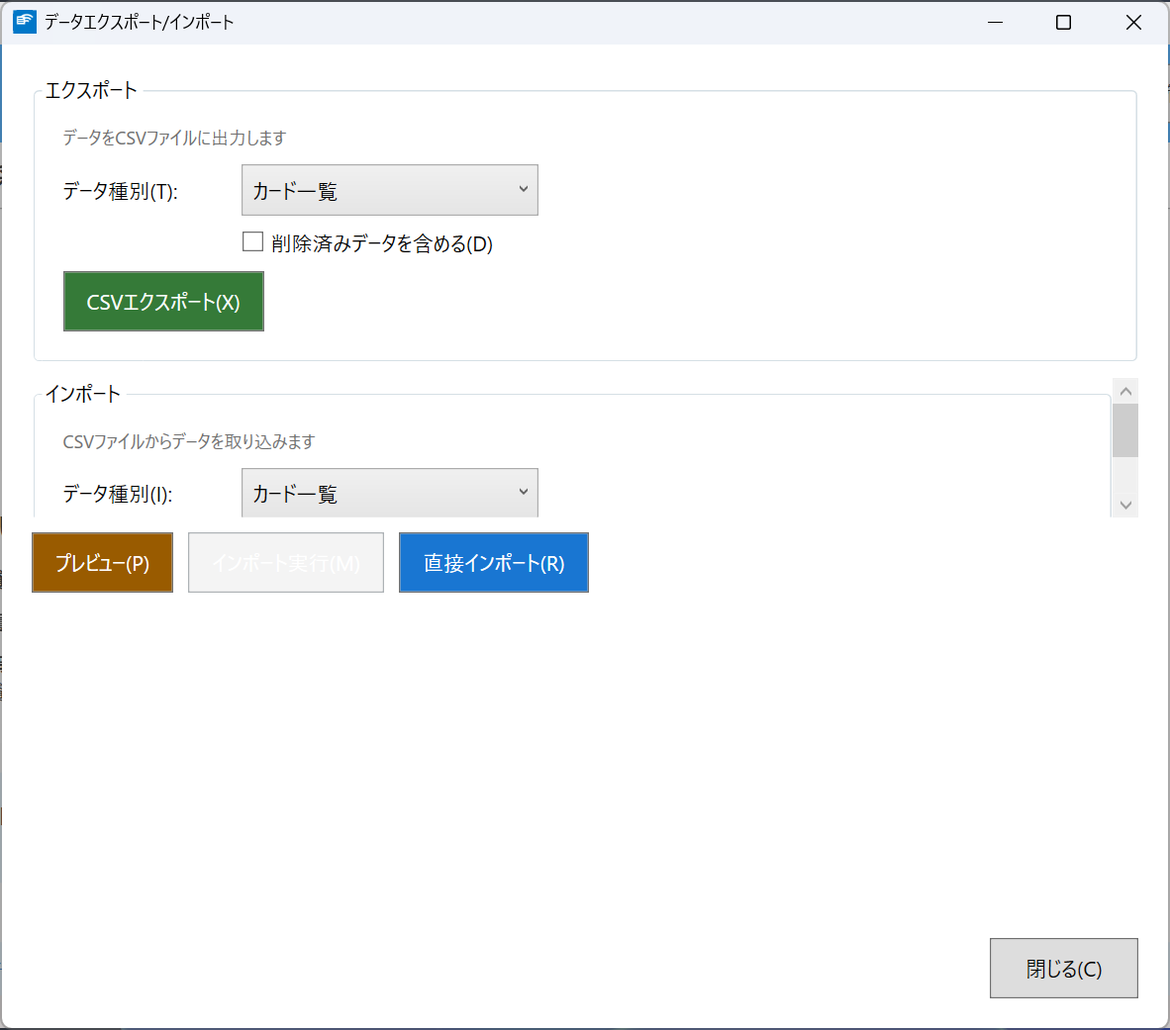
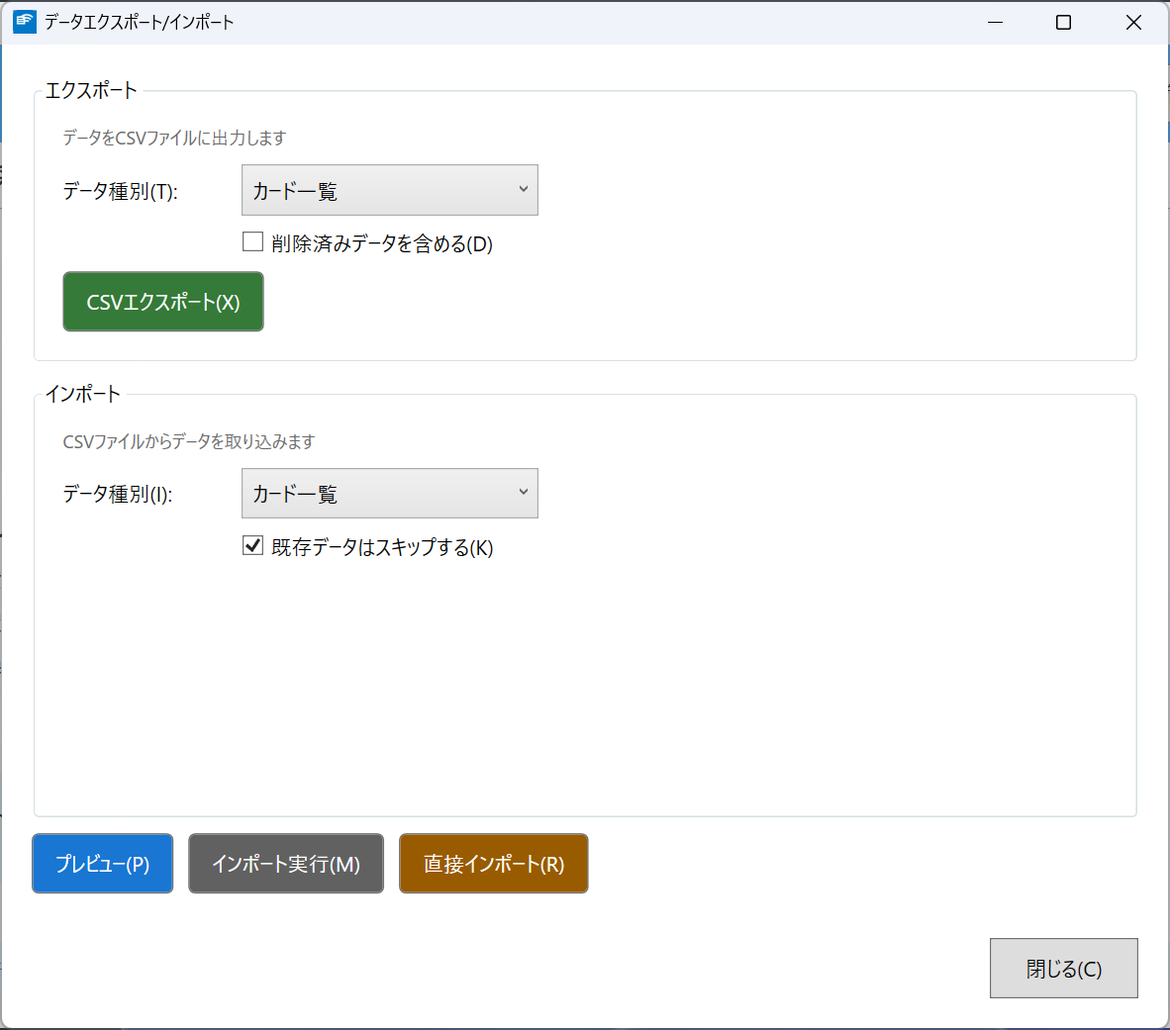
fix: データ入出力画面のプレビュー前にインポート設定が残りの高さをすべて使えるようにした（#2147） (#2148)
* fix: データ入出力画面のプレビュー前にインポート設定が残りの高さをすべて使えるようにした（#2147）

プレビュー結果の行は常に 2* で、中身が Collapsed でも比率どおりの高さを確保していたため、
プレビュー前も高さの 2/3 が空白になり、インポート設定がスクロールしないと見えなかった。
行の高さを Style の DataTrigger で「既定 Auto、HasPreview のときだけ 2*」に切り替える。

- 回帰は DataExportImportDialogLayoutTests（XAML 静的検査 5 件）で固定する。
  非表示時 Auto／表示時 * 系・条件が Visibility と同じ・ローカル値を持たない・
  無条件の * はインポート行だけ、を対で表明し、検査ロジックをサンプル入力で固定する
- 03_画面設計書 §3.10 に高さの配分を追記、07_テスト設計書・CHANGELOG を更新

Claude-Session: https://claude.ai/code/session_01H3hxEXMvzun1owyyquGWRX

* docs: 比率行は中身が Collapsed でも高さを取る規約を ui-conventions に追記した（#2147）

Claude-Session: https://claude.ai/code/session_01H3hxEXMvzun1owyyquGWRX

* docs: データ入出力画面のスクリーンショットを新しい高さの配分で撮り直した（#2147）

Claude-Session: https://claude.ai/code/session_01H3hxEXMvzun1owyyquGWRX

---------

diff --git a/ICCardManager/src/ICCardManager/Views/Dialogs/DataExportImportDialog.xaml b/ICCardManager/src/ICCardManager/Views/Dialogs/DataExportImportDialog.xaml
@@ -36,7 +36,24 @@
             <RowDefinition Height="*"/>      <!-- Row 1: インポート設定（スクロール可能、残領域を使用） -->
             <RowDefinition Height="Auto"/>   <!-- Row 2: アクションボタン -->
             <RowDefinition Height="Auto"/>   <!-- Row 3: ステータスメッセージ -->
-            <RowDefinition Height="2*" MinHeight="0"/>  <!-- Row 4: プレビュー結果＋エラー（リサイズ可能） -->
+            <!-- Row 4: プレビュー結果＋エラー。Issue #2147: 行の比率は中身の表示状態と無関係に効くため、
+                 常に 2* だとプレビュー前（インポート設定を操作している最中）も残りの高さの 2/3 が空白として確保され、
+                 インポート設定がスクロールしなければ見えなかった。プレビュー表示中だけ 2* で分け合い、
+                 それ以外は Auto（エラー一覧だけならその高さ、何も無ければ上余白だけ）にして余りをインポート設定へ回す。
+                 表示中も Auto にすると DataGrid が全件ぶん縦に伸びて閉じるボタンを画面外へ押し出す（#2076）。
+                 高さはローカル値で書かない（ローカル値は Style の Setter より優先され、トリガーが効かなくなる） -->
+            <RowDefinition MinHeight="0">
+                <RowDefinition.Style>
+                    <Style TargetType="RowDefinition">
+                        <Setter Property="Height" Value="Auto"/>
+                        <Style.Triggers>
+                            <DataTrigger Binding="{Binding HasPreview}" Value="True">
+                                <Setter Property="Height" Value="2*"/>
+                            </DataTrigger>
+                        </Style.Triggers>
+                    </Style>
+                </RowDefinition.Style>
+            </RowDefinition>
             <RowDefinition Height="Auto"/>   <!-- Row 5: Close button（常に表示） -->
         </Grid.RowDefinitions>
 

diff --git a/ICCardManager/tests/ICCardManager.Tests/Views/Dialogs/DataExportImportDialogLayoutTests.cs b/ICCardManager/tests/ICCardManager.Tests/Views/Dialogs/DataExportImportDialogLayoutTests.cs
@@ -1,0 +1,245 @@
+using System;
+using System.Collections.Generic;
+using System.IO;
+using System.Linq;
+using FluentAssertions;
+using ICCardManager.Tests.Views.Helpers;
+using Xunit;
+
+namespace ICCardManager.Tests.Views.Dialogs;
+
+/// <summary>
+/// Issue #2147: データ入出力ダイアログで、プレビューを表示していない間はインポート設定が
+/// 残りの高さをすべて使えること（空のプレビュー領域が高さを確保しないこと）を固定する。
+/// </summary>
+/// <remarks>
+/// <para>
+/// ルート <c>Grid</c> はインポート設定の行を <c>*</c>、プレビュー結果の行を <c>2*</c> で分け合っていた。
+/// プレビュー結果は <c>HasPreview</c> で <c>Collapsed</c> になるが、<b>行の高さの比率は中身の表示状態と
+/// 無関係に効く</b>ため、プレビュー前（＝インポート設定を操作している最中）も残りの高さの 2/3 が
+/// 何も描かれない空白として確保され、インポート設定は 1/3 のスクロール領域へ押し込まれていた。
+/// ウィンドウを縦に広げても広がった分の 2/3 は空白へ回る。
+/// </para>
+/// <para>
+/// <b>回帰は「非表示時は高さを取らない」と「表示時は伸縮する高さを取る」を対で置く</b>。
+/// 前者だけだと、プレビュー行を常に <c>Auto</c> にした実装でも緑になる — その場合 <c>DataGrid</c> は
+/// 無限の高さで測定されて全件ぶん縦に伸び、閉じるボタンを画面外へ押し出す（#2076）。
+/// あわせて「行を切り替える条件」と「中身を表示する条件」が同じプロパティであることを表明する。
+/// 別々の条件にすると、中身が見えているのに高さが 0、あるいは空白が確保される組み合わせが残る。
+/// </para>
+/// <para>
+/// 実描画の高さ（何 px になるか）は UI オートメーションが要るため、XAML テキスト上の構造だけを検査する。
+/// </para>
+/// </remarks>
+public class DataExportImportDialogLayoutTests
+{
+    /// <summary>インポート設定の中にだけ現れる文言（行の特定に使う）。</summary>
+    private const string ImportSectionMarker = "CSVファイルからデータを取り込みます";
+
+    /// <summary>プレビュー結果の一覧にだけ現れるバインディング（行の特定に使う）。</summary>
+    private const string PreviewListMarker = "{Binding PreviewItems}";
+
+    [Fact]
+    public void プレビュー結果の行はプレビューを表示していない間は高さを確保しないこと()
+    {
+        var layout = LoadLayout();
+        var previewRow = layout.RowDefinitions[layout.RowOf(PreviewListMarker)];
+
+        XamlElementInspection.GetUnconditionalPropertyValue(previewRow, "Height").Should().Be("Auto",
+            "Issue #2147: プレビュー結果が Collapsed の間も比率（2* 等）で高さを確保すると、" +
+            "その分が空白になってインポート設定がスクロールしなければ見えなくなる");
+    }
+
+    [Fact]
+    public void プレビュー結果の行はプレビューを表示している間は伸縮する高さを取ること()
+    {
+        var layout = LoadLayout();
+        var previewRow = layout.RowDefinitions[layout.RowOf(PreviewListMarker)];
+
+        var triggers = HeightTriggers(previewRow);
+
+        triggers.Should().ContainSingle(
+            "プレビュー結果の行は、プレビューの表示中だけ高さを切り替えること（対の表明: 常に Auto だと " +
+            "DataGrid が全件ぶん縦に伸びて閉じるボタンを画面外へ押し出す。#2076）");
+        triggers[0].Height.Should().EndWith("*", "表示中は残りの高さを分け合う（一覧自身がスクロールする）こと");
+
+        var previewVisibility = layout.VisibilityBindingEnclosing(PreviewListMarker);
+        triggers[0].Property.Should().NotBeNull().And.Be(previewVisibility,
+            "行の高さを切り替える条件と、プレビュー結果を表示する条件は同じプロパティであること" +
+            "（食い違うと「見えているのに高さ 0」か「空白の確保」が残る）");
+    }
+
+    /// <summary>
+    /// プレビュー結果の行は高さをローカル値（開始タグの属性・プロパティ要素）で持たないこと。
+    /// </summary>
+    /// <remarks>
+    /// WPF ではローカル値が Style の Setter とトリガーより優先される。<c>&lt;RowDefinition Height="Auto"&gt;</c> と
+    /// 書くと、トリガーを残したままでも行は常に <c>Auto</c> になり、プレビュー表示中に <c>DataGrid</c> が
+    /// 全件ぶん伸びて閉じるボタンを押し出す（#2076）。上の 2 件は Style とトリガーの記述しか見ないため、
+    /// この形では緑のまま通る（コードレビューで検出）。
+    /// </remarks>
+    [Fact]
+    public void プレビュー結果の行は高さをローカル値で持たないこと()
+    {
+        var layout = LoadLayout();
+        var previewRow = layout.RowDefinitions[layout.RowOf(PreviewListMarker)];
+
+        XamlElementInspection.GetAttribute(previewRow.StartTag, "Height").Should().BeNull(
+            "Issue #2147: ローカル値はトリガーより優先されるため、行の高さがプレビューの表示状態に追随しなくなる");
+        XamlElementInspection.EnumerateElements(previewRow.Body, "RowDefinition.Height").Should().BeEmpty(
+            "プロパティ要素形（<RowDefinition.Height>）もローカル値であり、同じくトリガーを無効にする");
+    }
+
+    [Fact]
+    public void 無条件に伸縮する行はインポート設定の行だけであること()
+    {
+        var layout = LoadLayout();
+        var importRow = layout.RowOf(ImportSectionMarker);
+
+        var starRows = layout.RowDefinitions
+            .Select((row, index) => new
+            {
+                Index = index,
+                Height = XamlElementInspection.GetUnconditionalPropertyValue(row, "Height") ?? "*",
+            })
+            .Where(r => r.Height.EndsWith("*", StringComparison.Ordinal))
+            .Select(r => r.Index)
+            .ToList();
+
+        starRows.Should().Equal(new[] { importRow },
+            "Issue #2147: プレビュー前に余った高さはすべてインポート設定へ回すこと" +
+            "（他の行が比率で高さを取ると、その分だけインポート設定がまた狭くなる）");
+    }
+
+    /// <summary>
+    /// 検査ロジック自体の固定: 修正前の形（<c>*</c> と <c>2*</c> の常時分割）を与えると赤になること。
+    /// </summary>
+    /// <remarks>
+    /// 行の特定（祖先を辿って <c>Grid.Row</c> を読む）が空振りすると、上の 3 件は
+    /// 「対象の行が見つからないので何も検査しない」形で緑になり得る。既知のサンプル入力で
+    /// 検出できることを固定しておけば、実ファイルの構造が変わっても空振りに気付ける（#1786）。
+    /// </remarks>
+    [Fact]
+    public void 修正前の形は常時分割として検出されること()
+    {
+        const string before = @"<Window>
+    <Grid Margin=""20"">
+        <Grid.RowDefinitions>
+            <RowDefinition Height=""*""/>
+            <RowDefinition Height=""2*"" MinHeight=""0""/>
+        </Grid.RowDefinitions>
+        <ScrollViewer Grid.Row=""0""><TextBlock Text=""CSVファイルからデータを取り込みます""/></ScrollViewer>
+        <Grid Grid.Row=""1"">
+            <Grid Visibility=""{Binding HasPreview, Converter={StaticResource B}}"">
+                <DataGrid ItemsSource=""{Binding PreviewItems}""/>
+            </Grid>
+        </Grid>
+    </Grid>
+</Window>";
+        var layout = new DialogLayout(before);
+
+        layout.RowOf(ImportSectionMarker).Should().Be(0);
+        layout.RowOf(PreviewListMarker).Should().Be(1);
+        XamlElementInspection.GetUnconditionalPropertyValue(layout.RowDefinitions[1], "Height")
+            .Should().Be("2*", "修正前の形では、プレビュー結果の行が常に比率で高さを確保している");
+        layout.VisibilityBindingEnclosing(PreviewListMarker).Should().Be("HasPreview");
+    }
+
+    /// <summary>
+    /// 行定義の <c>DataTrigger</c>（<c>Value="True"</c>）のうち高さを設定するものを、条件のプロパティ名と値の組で返す。
+    /// </summary>
+    /// <remarks>
+    /// Setter の <c>Property</c> は所有者付きの表記（<c>RowDefinition.Height</c>）も同じ指定として照合する
+    /// （<see cref="XamlElementInspection.IsSetterFor"/>。書き方の違いで赤くなる誤検出を避ける。#1786）。
+    /// </remarks>
+    private static List<(string? Property, string Height)> HeightTriggers(XamlElementInspection.XamlElementSpan row)
+        => XamlElementInspection.EnumerateElements(row.Body, "DataTrigger")
+            .Where(t => XamlElementInspection.GetAttribute(t.StartTag, "Value") == "True")
+            .SelectMany(t => XamlElementInspection.EnumerateElements(t.Body, "Setter")
+                .Where(s => XamlElementInspection.IsSetterFor(XamlElementInspection.GetAttribute(s.StartTag, "Property"), "Height"))
+                .Select(s => XamlElementInspection.GetAttribute(s.StartTag, "Value"))
+                .Where(v => v != null)
+                .Select(v => (
+                    Property: XamlElementInspection.GetBindingPropertyName(XamlElementInspection.GetAttribute(t.StartTag, "Binding")),
+                    Height: v!)))
+            .ToList();
+
+    private static DialogLayout LoadLayout()
+        => new(File.ReadAllText(ViewSourceLocator.Resolve(
+            Path.Combine("Views", "Dialogs", "DataExportImportDialog.xaml"))));
+
+    /// <summary>ルート <c>Grid</c> の行定義と、各要素がどの行に置かれているかを引く。</summary>
+    private sealed class DialogLayout
+    {
+        private readonly string _xaml;
+
+        public DialogLayout(string xaml)
+        {
+            _xaml = XamlElementInspection.StripXmlComments(xaml);
+            // 子孫の Grid（プレビュー結果の内側の Grid 等）も Grid.RowDefinitions を持つため、
+            // 取り除いてからルート自身の行定義を 1 つに絞る
+            var rootBody = RootGrid.Body;
+            foreach (var nested in XamlElementInspection.EnumerateElementSpans(rootBody, "Grid").Reverse().ToList())
+            {
+                rootBody = rootBody.Remove(nested.Start, nested.Length);
+            }
+
+            RowDefinitions = XamlElementInspection.EnumerateElementSpans(
+                    XamlElementInspection.EnumerateElements(rootBody, "Grid.RowDefinitions").Single().Body,
+                    "RowDefinition")
+                .ToList();
+            RowDefinitions.Should().NotBeEmpty("ルート Grid は行定義を持つ");
+        }
+
+        public IReadOnlyList<XamlElementInspection.XamlElementSpan> RowDefinitions { get; }
+
+        /// <summary>Window 直下の Grid。</summary>
+        private XamlElementInspection.XamlElementSpan RootGrid
+            => XamlElementInspection.EnumerateElementSpans(RootBody, "Grid").First();
+
+        private string RootBody
+        {
+            get
+            {
+                var rootTag = XamlElementInspection.GetRootStartTag(_xaml)!;
+                var start = _xaml.IndexOf(rootTag, StringComparison.Ordinal);
+                return XamlElementInspection.ElementStartingAt(_xaml, start)!.Body;
+            }
+        }
+
+        /// <summary>
+        /// <paramref name="marker"/> を含む、ルート Grid の直接の子が置かれている行番号。
+        /// </summary>
+        public int RowOf(string marker)
+        {
+            var child = RootChildEnclosing(marker);
+            var row = XamlElementInspection.GetAttribute(child.StartTag, "Grid.Row");
+            return row == null ? 0 : int.Parse(row);
+        }
+
+        /// <summary>
+        /// <paramref name="marker"/> を囲む要素のうち、<c>Visibility</c> をバインドしている最も内側のもののプロパティ名。
+        /// </summary>
+        public string? VisibilityBindingEnclosing(string marker)
+            => Enclosing(marker)
+                .Select(e => XamlElementInspection.GetBindingPropertyName(
+                    XamlElementInspection.GetAttribute(e.StartTag, "Visibility")))
+                .LastOrDefault(p => p != null);
+
+        private XamlElementInspection.XamlElementSpan RootChildEnclosing(string marker)
+        {
+            var enclosing = Enclosing(marker);
+            var rootGridIndex = enclosing.FindIndex(e => e.StartTag.StartsWith("<Grid", StringComparison.Ordinal));
+            rootGridIndex.Should().BeGreaterOrEqualTo(0, $"「{marker}」はルート Grid の内側にあること");
+            enclosing.Count.Should().BeGreaterThan(rootGridIndex + 1, $"「{marker}」はルート Grid の子要素の内側にあること");
+            return enclosing[rootGridIndex + 1];
+        }
+
+        private List<XamlElementInspection.XamlElementSpan> Enclosing(string marker)
+        {
+            var index = _xaml.IndexOf(marker, StringComparison.Ordinal);
+            index.Should().BeGreaterOrEqualTo(0, $"「{marker}」が XAML に存在すること（行の特定に使う目印）");
+            return XamlElementInspection.EnumerateEnclosingElements(_xaml, index).ToList();
+        }
+    }
+}

diff --git a/ICCardManager/docs/design/07_テスト設計書.md b/ICCardManager/docs/design/07_テスト設計書.md
@@ -24,9 +24,9 @@
 
 | 種別 | テスト数 | 備考 |
 |------|---------|------|
-| 単体テスト（ICCardManager.Tests） | 8,023件 | xUnit + FluentAssertions + Moq（Release 構成での実測、CI `test-count-sync` と整合） |
+| 単体テスト（ICCardManager.Tests） | 8,028件 | xUnit + FluentAssertions + Moq（Release 構成での実測、CI `test-count-sync` と整合） |
 | UIテスト（ICCardManager.UITests） | 72件 | Issue #1263 でダイアログ追加6件（その後アクセシビリティ・新機能対応で増加）。Issue #2016 でマニュアル用スクリーンショット撮影 8 件（環境変数で opt-in、通常は Skip）＋起動構成の解決 7 件、Issue #2019 でタッチを要する画面の撮影 3 件、Issue #2011 で撮り直し・新規画面の撮影 14 件（`ManualScreenshotTests` +10、`TouchScreenshotTests` +4）、Issue #2062 で既存 DB の退避・復元 14 件（`UiTestDatabaseGuardTests`）。Category=UI を持たないこの 2 クラス（起動構成の解決・既存 DB の退避）は、Issue #2099 で CI に UITests の csproj を直接指定するステップを追加して初めて実際に CI で実行されるようになった（それまでは UITests がソリューション単位の実行から自分を外しており、一度も走っていなかった） |
-| **合計** | **8,095件** | 全件パス（最終同期: Issue #2143 30秒ルールの案内文言・終了確認・行編集の Enter 案内の是正で単体 +12） |
+| **合計** | **8,100件** | 全件パス（最終同期: Issue #2147 データ入出力画面のインポート設定の高さの是正で単体 +5） |
 
 > **件数の同期手順（Issue #1475）**
 >
@@ -5591,6 +5591,7 @@ Issue #1548 マージ後の実機検証（Issue #1507）で、ページ送り操
 | `Views/Helpers/EditFormKeyPolicyTests` | 10 | Issue #2080。Escape キーが意味する操作を決める純関数 `EditFormKeyPolicy.ResolveEscapeAction(bool)` の検証。編集中は `CancelEdit`（編集フォームだけを閉じて一覧へ戻る）、非編集中は `CloseDialog`（従来どおりダイアログを閉じる）。`Window` のコードビハインドは STA 依存で xUnit から実行できないため、**判断だけを純関数へ切り出して単体テストで、結線はソーステキストの静的検査で固定する**（error-messages.md #1817 と同じ作法）。個別の期待値 2 件に加え、**別の観測軸**として「編集中かどうかで結果が変わること」を置く — 個別の 2 件は片方を書き換える退行がもう片方を巻き込まないが、この表明は編集状態を見ずに一方へ畳んだ実装（常に閉じる／常に取り消す）を必ず赤にする。**コードレビューでの追加**: 処理中（`IsBusy`）は編集状態に関わらず `Ignore`。処理中オーバーレイが塞ぐのはマウスのヒットテストだけで、キーボードは配下へ届く（#1761）ため、`BeginBusy` スコープの内側で DB を待つ保存の継続が**空になった入力欄**を読み、影響行数 0 から「他のパソコンで削除された可能性があります」という**試みてすらいない編集についての競合案内**が出る。登録経路ではカード読み取り抑制（#1807）も解放され、その瞬間のタッチが貸出として処理される。是正前の Escape（`IsCancel="True"`）はウィンドウを閉じるだけで入力欄を消さなかったので、**これは是正が持ち込み得た新しい故障**。結果の集合を走査する表明（4 通りの入力で 3 種類の結果が出ること）が、どちらかの引数を見ない実装を赤にする。Issue #2102 で、`HandleEscape` の振り分けを STA 上の実物の `Window` と `KeyEventArgs` で検証するテストを追加した（`ResolveEscapeAction` へ渡す IsBusy を false に固定しても緑だった） |
 | `Views/FontScaledFixedHeightConventionTests` | 3 | `Views/` 配下全体の静的検証（Issue #2076）。**走査対象をファイル名で列挙せず導出する** — 文字が `BaseFontSize` に追随するコントロール（`Button` / `ComboBox` / `TextBox` / `DatePicker` / `CheckBox` / `RadioButton` / `TextBlock` / `PasswordBox`）に数値リテラルの `Height` を与えないこと。固定高さは文字サイズ「大」以上で中身の上下を切り落とし、**横方向の切れと違って読み直す手段が無い**（切れていること自体が見て分からない）。Issue が名指ししたのは印刷プレビューの 10 箇所だけだったが、走査すると 23 箇所あった。**除外は「中身をスクロールできること」（`VerticalScrollBarVisibility` の宣言）で判断する** — 複数行の備考欄は固定高さのビューポートであり、文字が大きくなれば見える行数が減るだけで中身は失われない。画面名による除外リストにすると同型の新しい箇所が静かに漏れる（#1786）。`MaxHeight` は band の上限で中身を切らないため対象外（`SystemManageDialog` のバックアップ一覧が該当）。空振り検出は「除外側に残る実在の 2 箇所（`CardManageDialog` / `StaffManageDialog` の備考欄）が拾えていること」で、検査ロジック自体はサンプル入力で対に固定する（固定 `Height` を拾う／`MinHeight`・`MaxHeight`・バインディング・レイアウト要素・プロパティ要素は拾わない／単引用符と属性値中の `>` でも拾う）。走査は `Views/Helpers/XamlElementInspection` へ委譲する（testing.md）。**検査できない範囲**（外部リソース辞書の `Style` 経由の `Height`）は XML doc に明示する。検出力は修正前の XAML に当てて実測（赤） |
 | `Views/Dialogs/LowResolutionDialogLayoutTests` | 9 | XAML テキスト上の静的検証（Issue #2076）。03_画面設計書 §5.6「入力フォーム型ダイアログの構造」への適合を固定する。①`SystemManageDialog` / `CardRegistrationModeDialog` のボタン行（「閉じる」「OK」）が `ScrollViewer` の**外**にあること ②**対の表明**として、伸び得る内容（「リストア（データ復元）」「紙の出納簿からの繰越」）が `ScrollViewer` の**中**にあること — ①だけだと `ScrollViewer` を丸ごと撤去して固定配置に戻した実装（＝欠陥がそのまま残る）でも緑になる ③`CardTypeSelectionDialog` のボタン 3 つが `WrapPanel` の中にあり、`<UniformGrid` を使っていないこと（同幅に揃えると最長の「交通系ICカード」に合わせて特大でまた溢れる。#1692）。禁止要素は**タグで照合**するので、その理由を書いたコメント自体が違反として検出されることはない（#1692 の極性の反転）。対象には `SizeToContent="Height"` の 2 つ（カード種別選択・職員証認証）も含める（コードレビューで検出） — **上限（`MaxHeight`）を付けただけでは「画面外へ出る」が「切れて見えない」に変わるだけで、押す手段が無いことは変わらない**。実描画は UI オートメーションが要るため手動検証する |
+| `Views/Dialogs/DataExportImportDialogLayoutTests` | 5 | XAML テキスト上の静的検証（Issue #2147）。データ入出力ダイアログで、**プレビューを表示していない間はインポート設定が残りの高さをすべて使えること**を固定する。ルート `Grid` がインポート設定 `*`・プレビュー結果 `2*` で常時分割していたため、プレビュー前も高さの 2/3 が空白として確保されていた。①プレビュー結果の行の無条件の高さが `Auto` ②**対の表明**として、`HasPreview` のときだけ `*` 系の高さへ切り替わり、その条件がプレビュー結果の `Visibility` と同じプロパティであること — ①だけだと常に `Auto` にした実装（`DataGrid` が全件ぶん伸びて閉じるボタンを押し出す。#2076）でも緑になる ③プレビュー結果の行が高さをローカル値（属性・プロパティ要素）で持たないこと（ローカル値はトリガーより優先され、トリガーを残したまま常に `Auto` になる。コードレビューで検出） ④無条件に伸縮する行はインポート設定の行だけ ⑤検査ロジック自体を修正前の形のサンプル入力で固定（行の特定が空振りして何も検査しない状態を検出する。#1786）。検出力は修正前の XAML・トリガー条件の取り違え・トリガーの撤去の 3 変異とローカル値の変異で実測 |
 | `Views/MainWindowHistoryColumnLayoutTests` | 10 | XAML テキスト上の静的検証（Issue #2076）。履歴一覧の自由入力列（利用者・備考）が、幅に収まらない値を隠さないこと。`DataGrid` のセルは既定で切り詰めも省略記号も行わないため、幅 80 固定の利用者列では「博多 花子 外１名」（#1906）の「外１名」が**黙って消え**、職員は 1 人で利用したと読む。行の高さが揃う一覧では折り返し（#1687）を使えないので、`TextTrimming="CharacterEllipsis"`（切れていることが見て分かる）と `ToolTip`（全文を読める）を**対で**求める — 前者だけだと全文を読む手段が無く、後者だけだとマウス操作が前提になる。あわせて既定幅が是正前（80）へ戻っていないことを固定する（切り詰めは「収まらなかったとき」の手当てであって、既定で毎行が切れてよい理由にはならない）。列の特定は `Header` で行い、走査が空振りしていないことを NotBeNull で対に表明する。**値が空の行では `ToolTip` を外すことも固定する**（コードレビューで検出） — `ToolTipService` は最も近い祖先の `ToolTip` を使うため、空のまま残すと中身の無いツールチップが出るうえ、**行レベルの `ToolTip`（#1052 の残高不整合の説明・#1907 の「今回の返却で記録された行」）をそのセルの上でだけ覆う**。利用者は導入行（新規購入・繰越）で空になり、**導入行こそ残高不整合の起点になりやすい**（#2007） |
 | `Views/BusStopInputDialogSuggestionKeyboardLayoutTests` | 12 | XAML・コードビハインドのテキスト上の静的検証（Issue #2072）。入力欄の `PreviewKeyDown` が `HandleSuggestionKey(e.Key)` を呼び `e.Handled = true` にすること・候補リストの `SelectedIndex` バインドと `IsSelected` の強調表示、ListBox と項目の両方が `Focusable="False"` であること・入力欄の `LostKeyboardFocus` が `HideSuggestions()` を呼ぶこと・ヒント文がキー操作を案内していること（詳細は UT-029e） |。Issue #2142 で、どのボタンにも `IsCancel="True"` が無いことと、Esc が Window の `KeyBinding` で `RequestCloseCommand`（確認つきのスキップ）へ結線されていることを対で表明した（`IsCancel` は Click 後に無条件で `DialogResult=false` を設定するため、破棄の確認で「いいえ」を選んでも閉じて入力が失われる。コードレビューで検出）
 | `Views/TransferStationGroupDialogLayoutTests` | 5 | XAML テキスト上の静的検証（Issue #1905）。ステータス欄が編集フォーム（`IsEditing` で Collapsed になる Border）の内側に無いこと・独立した行に**存在すること**（不在だけを見るとステータス欄ごと削除されても緑）・折り返し・一覧操作のボタン行が `WrapPanel` であること・処理中オーバーレイの `RowSpan` がルート `Grid` の行数と一致すること |

diff --git a/.claude/rules/ui-conventions.md b/.claude/rules/ui-conventions.md
@@ -172,6 +172,7 @@ paths:
   - **`SizeToContent="Height"` のダイアログでは `MaxHeight` が `Height` の役割を担う**。内容の高さに合わせて伸びる以上、上限が無ければ画面高さを超える
   - **回帰は「ボタンがスクロール領域の外にあること」と「内容がスクロール領域の中にあること」を対で置く**。前者だけだと、`ScrollViewer` を丸ごと撤去して固定配置へ戻した実装（＝欠陥がそのまま残る）でも緑になる
   - **`ScrollViewer` の中に高さ無制限の一覧を入れない**。外側が無限高さで測定するため一覧は全件ぶん縦に伸び、**外側のスクロール量が件数に比例して増える**。`MaxHeight` で band を切り、超えた分は一覧自身のスクロールで見る（`SystemManageDialog` のバックアップ一覧）
+  - **中身が表示されたり隠れたりする領域に、比率（`2*` 等）の行を固定で与えない**（Issue #2147）。`Grid` の比率行は**中身が `Collapsed` でも比率どおりの高さを確保する**ため、データ入出力ダイアログではプレビュー前も高さの 2/3 が空白になり、インポート設定がスクロールしないと見えなかった。行の高さは `RowDefinition.Style` の `DataTrigger` で「既定 `Auto`、表示中だけ比率」に切り替え、条件は中身の `Visibility` と同じプロパティにする。**高さをローカル値で書かない**（ローカル値はトリガーより優先され、切り替えが効かなくなる）。表示中まで `Auto` にすると一覧が全件ぶん伸びる（上の項目）ので、回帰は「非表示時は `Auto`」と「表示時は比率」を対で置く（`DataExportImportDialogLayoutTests`）
 - **一覧（`DataGrid`）の自由入力列は、幅に収まらない値を隠さない**（Issue #2076）。`DataGrid` のセルは既定で切り詰めも省略記号も行わないため、**入らなかった文字は黙って消える**。履歴一覧の利用者列は幅 80 で、「博多 花子 外１名」（#1906）の「外１名」が文字サイズ「中」でも見えず、**職員は 1 人で利用したと読む**（欠落が「値が無い」と区別できない）
   - **行の高さが揃う一覧では折り返しを使えない**ので、上の「幅ではなく折り返しで担保する」がそのままは適用できない。代わりに `TextTrimming="CharacterEllipsis"`（切れていることが見て分かる）と `ToolTip`（全文を読める）を**対で**置く — 前者だけだと全文を読む手段が無く、後者だけだとマウス操作が前提になる
   - **切り詰めは「収まらなかったとき」の手当てであって、既定で毎行が切れてよい理由にはならない**。既定幅も通常の値が収まる程度には確保し、下限をテストで固定する

diff --git a/ICCardManager/docs/design/03_画面設計書.md b/ICCardManager/docs/design/03_画面設計書.md
@@ -967,6 +967,21 @@ stateDiagram-v2
 - インポート先カード指定（履歴インポート時のみ）
 - エラー詳細表示
 
+**縦方向の高さの配分（Issue #2147）**
+
+エクスポート・アクションボタン・ステータス・閉じるボタンは内容の高さ（`Auto`）で、残りの高さをインポート設定とプレビュー結果が分け合う。
+
+| 状態 | インポート設定 | プレビュー結果＋エラー一覧 |
+|------|---------------|---------------------------|
+| プレビュー前（`HasPreview=false`） | **残りすべて**（`*`） | エラー一覧の高さだけ（`Auto`。エラーも無ければ上余白の 5px だけ） |
+| プレビュー表示中（`HasPreview=true`） | 残りの 1/3（`*`） | 残りの 2/3（`2*`） |
+
+- 行の比率（`2*`）は**中身が `Collapsed` でも効く**。常時 `*` : `2*` で分けていた頃は、プレビュー前（＝インポート設定を操作している最中）も高さの 2/3 が何も描かれない空白として確保され、インポート設定は 1/3 のスクロール領域に押し込まれていた。ウィンドウを縦に広げても、広がった分の 2/3 は空白へ回っていた
+- プレビュー表示中も `Auto` にはしない。`DataGrid` が全件ぶんの高さで測定されて縦に伸び、閉じるボタンを画面外へ押し出す（§5.6）。表示中は `2*` で高さを区切り、超えた分は一覧自身のスクロールで見る
+- 行の高さを切り替える条件は、プレビュー結果の `Visibility` と同じ `HasPreview` に揃える（食い違うと「見えているのに高さ 0」か「空白の確保」が残る）
+- 利用履歴のインポートは「インポート先カード」の指定欄を持つため、既定の高さ（700）・文字サイズ「中」ではなおスクロールが残り得る。ウィンドウを縦に広げれば、広げた分はすべてインポート設定へ回る
+- 回帰は `DataExportImportDialogLayoutTests` が XAML テキスト上で固定する
+
 **「インポート実行」ボタンの活性条件とプレビューの破棄（Issue #1781）**
 
 「インポート実行」は `IsEnabled="{Binding HasPreview}"` で、プレビュー実行後にのみ押せる。**取り込みが1行でも確定したらプレビューを破棄し（`HasPreview=false`）、同じファイルで押し直せない状態にする**。

diff --git a/ICCardManager/CHANGELOG.md b/ICCardManager/CHANGELOG.md
@@ -3,6 +3,10 @@
 ### Unreleased
 
 **不具合修正**
+- Issue #2147 **データ入出力画面で、プレビュー前のインポート設定が画面の高さの 1/3 に押し込まれていたのを是正した**
+  - プレビュー結果の領域はプレビューするまで表示されないが、高さの配分（インポート設定 1 : プレビュー結果 2）は表示の有無にかかわらず効いていたため、プレビュー前も高さの 2/3 が空白のまま確保され、インポート設定はかなりスクロールしないと見えなかった。プレビュー前は残りの高さをすべてインポート設定へ回し、プレビュー表示中だけ従来どおり 1 : 2 で分け合う。ウィンドウを縦に広げた分も、プレビュー前はすべてインポート設定へ回る
+  - 利用履歴のインポート（インポート先カードの指定欄がある）は、画面の高さ・文字サイズによってはなおスクロールが残る場合がある
+  - テスト: 単体 8,023 → 8,028（+5）・合計 8,095 → 8,100
 - Issue #2143 **30秒ルールの案内文言・確認なしの終了・行編集の Enter 案内の 3 件を是正した**
   - **使い方ガイドの「誤操作の修正」を「操作を間違えたとき」に改め、再タッチは逆の操作を記録すること・元の記録も履歴に残ることを明記した**。30 秒ルールは直前の記録を取り消すのではなく逆の操作を新たに記録するため、「修正」では誤った記録が消えると読まれた。秒数は直書きせず、再タッチ判定と同じ設定値（`RetouchWindowSeconds`）から表示する
   - **「終了」ボタンとタイトルバーの ✕・Alt+F4 で、終了してよいかを確認するようにした**。共有 PC で誤って閉じると、誰かが起動し直すまで以後のタッチに何も反応しなかった。職員証をタッチした後や貸出・返却の処理中なら、操作の途中であることも表示する。確認の表示中はカードの読み取りを止め、確認の裏で貸出・返却が進まないようにした。OS のサインアウト・シャットダウンでは確認しない（OS の終了を妨げない）
